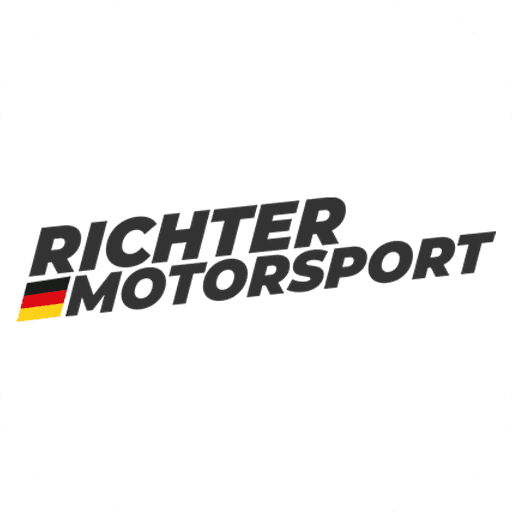
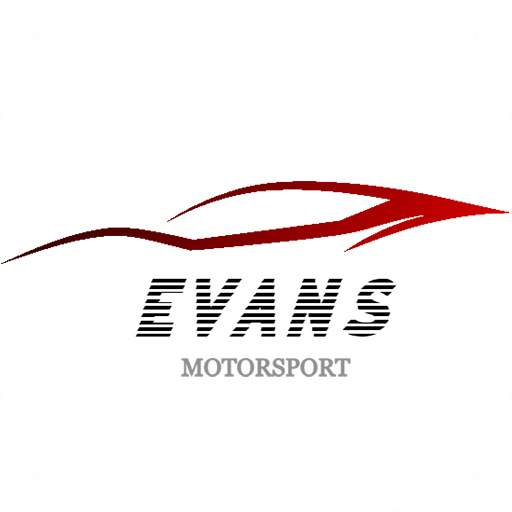
Update OraPhone - Update Richter Motorsport app
+ Update logo and name for richter motorsport app

Changed region(s): [[0.0, 0.3438, 1.0, 0.6562], [0.3438, 0.6875, 0.6875, 0.75]]

diff --git a/[others]/OraPhone/html/script.js b/[others]/OraPhone/html/script.js
@@ -358,6 +358,7 @@ $(function(){
 
             // Affichage de l'écran de test
             let dateTest = {
+                'phoneNumber': '5556585',
                 'phone': {
                     'darkMode': 0, 'wallpaper': "wallpaper-midnight", 'wallpaperLock': "wallpaper-midnight", 'soundNotification': "notification-magic", 'soundNotificationVolume': 5, 'soundRinging': "ringing-iosoriginal", 'soundRingingVolume': 5, 'soundAlarm': "alarm-iosradaroriginal", 'soundAlarmVolume': 5, 'zoom': "zoom100%", 'serialNumber': "5555-5555", 'firstName': "Mike", 'lastName': "Bell", 'number': "5556868", 'luminosity': 100, 'appHomeOrder': JSON.stringify([ 'clock', 'camera', 'gallery', 'calandar', '', '', '', '', 'store', 'music', 'notes', 'calculator', '', '', '', '', 'richtermotorsport', 'maps', 'bank', '', '', '', '', '', '', '', '', '', '', '', '', '', '', '', '', '', '', '', '', '',
                     ])
@@ -366,8 +367,8 @@ $(function(){
             if (phoneTest) {
                 await updateUserData(dateTest);
                 displayPhone(true);
-                updateContent("bank");
-                updateAppContent("history");
+                updateContent("home");
+                updateAppContent("first");
                 $("#message-list").children().click(function () {
                     updateAppContent("message");
                 });
@@ -3691,7 +3692,7 @@ const config = {
         // },
         {
             "name": "richtermotorsport",
-            "label": "Richter Motorsport"
+            "label": "Evans Motorsport"
         },
         {
             "name": "maps",
